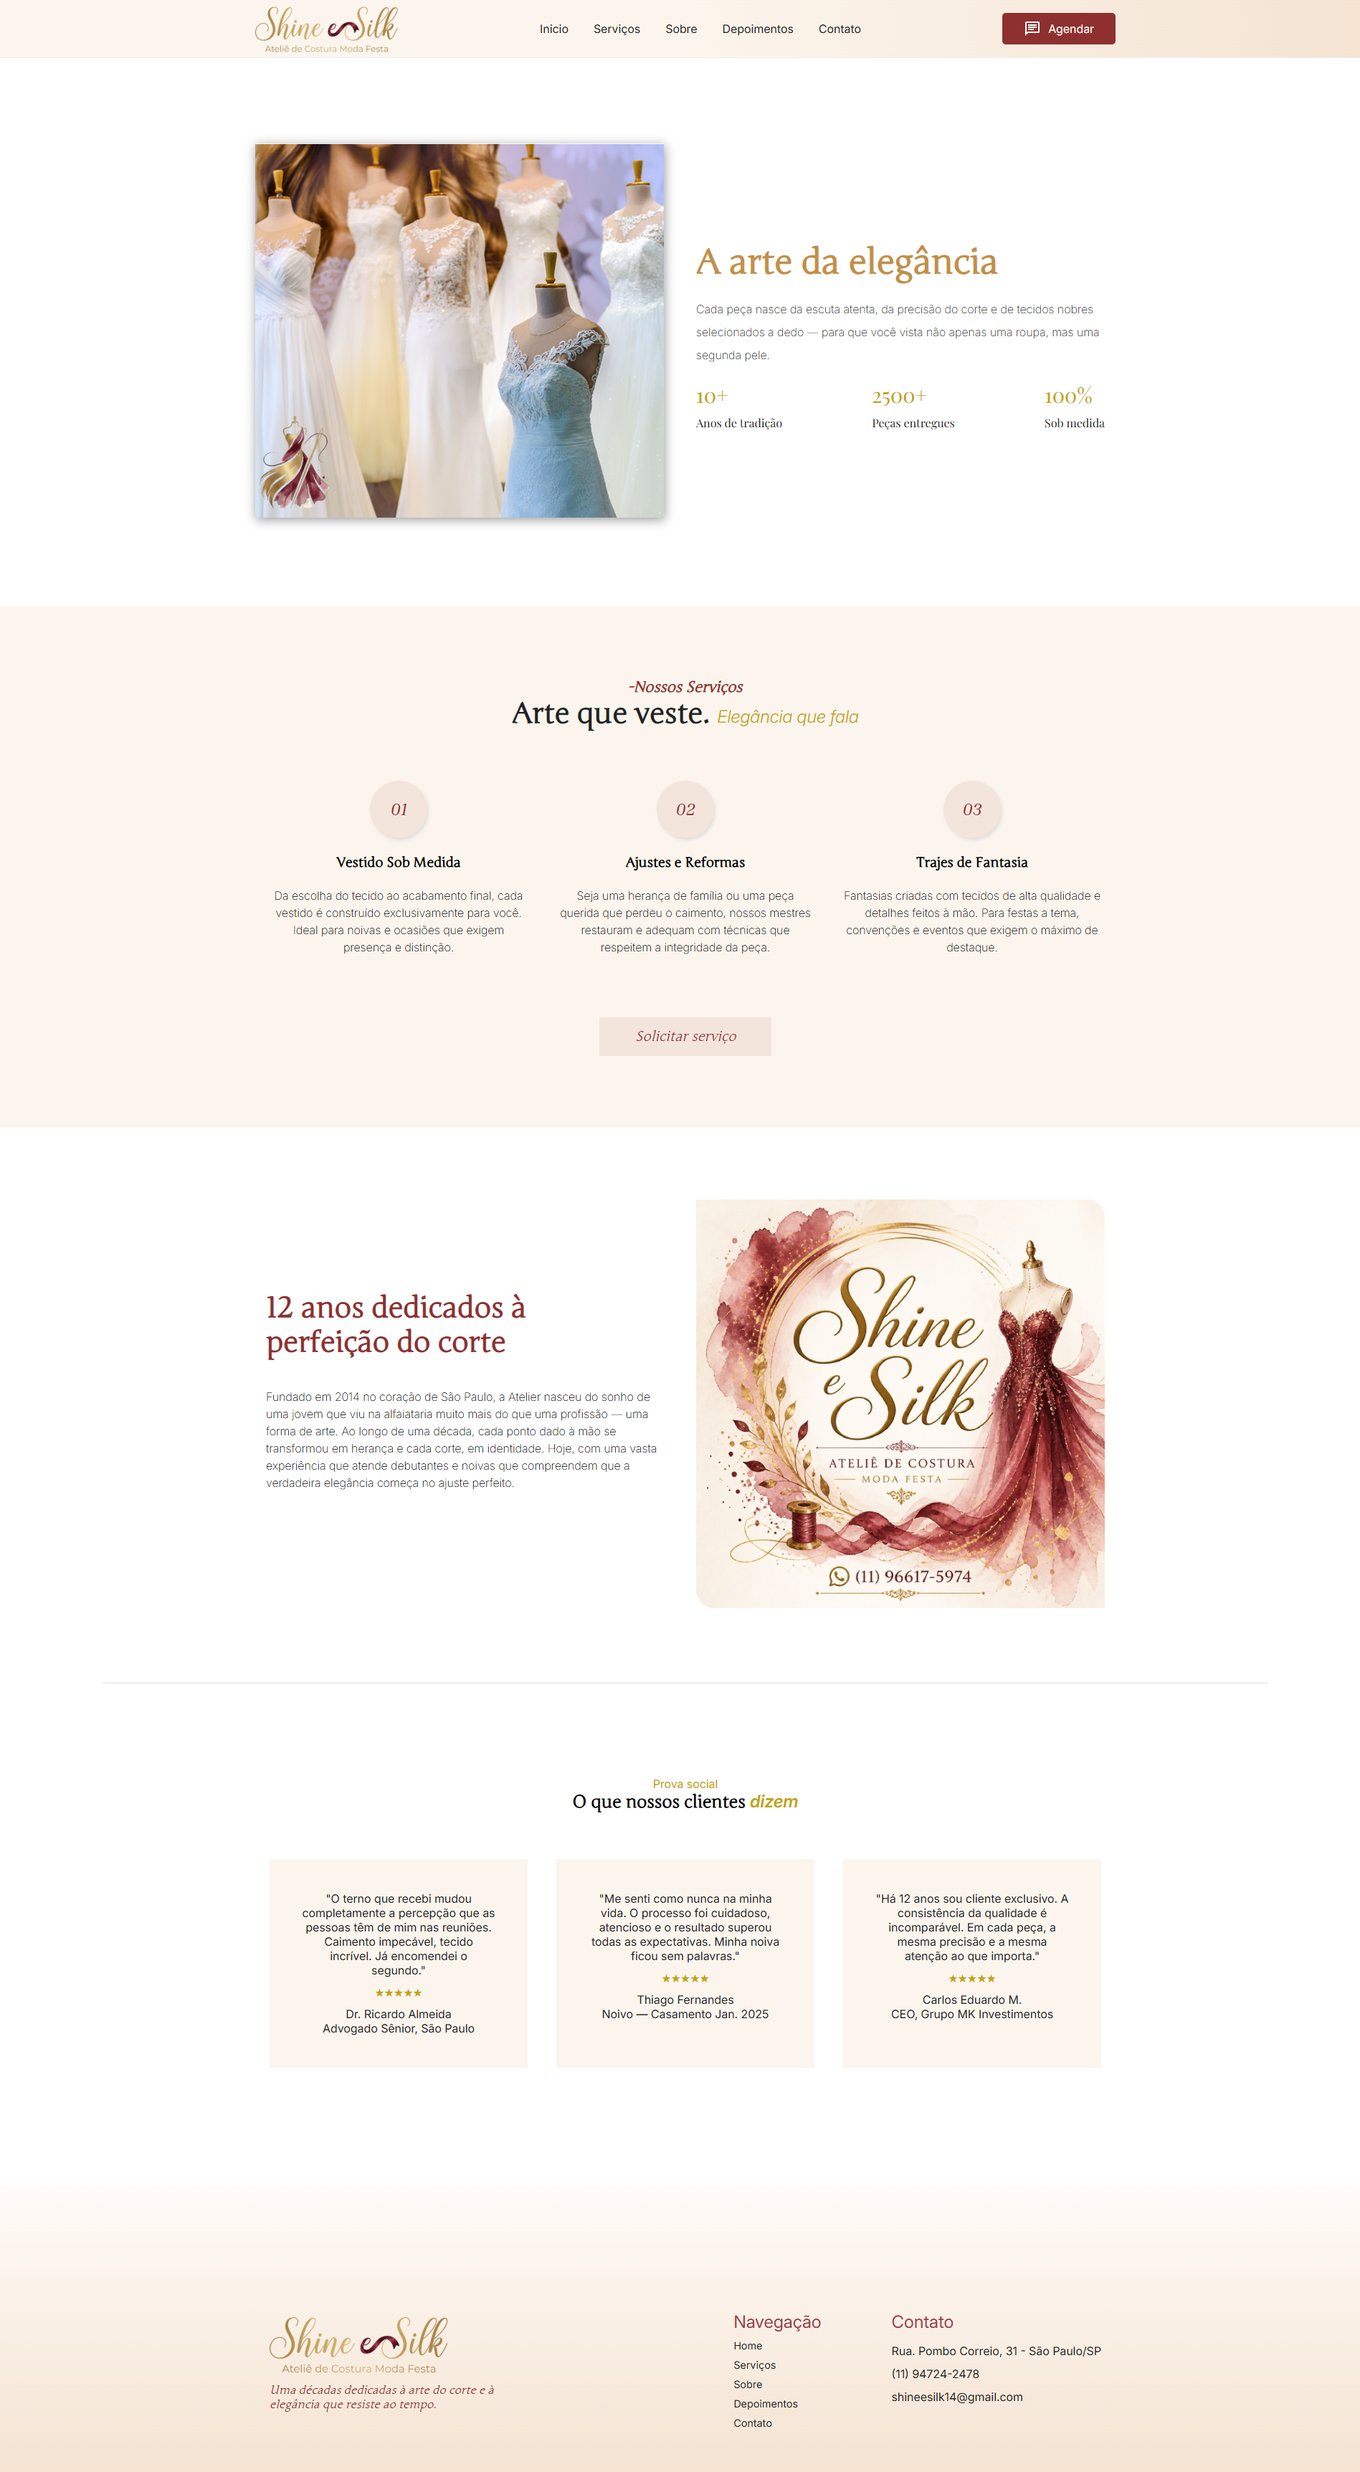
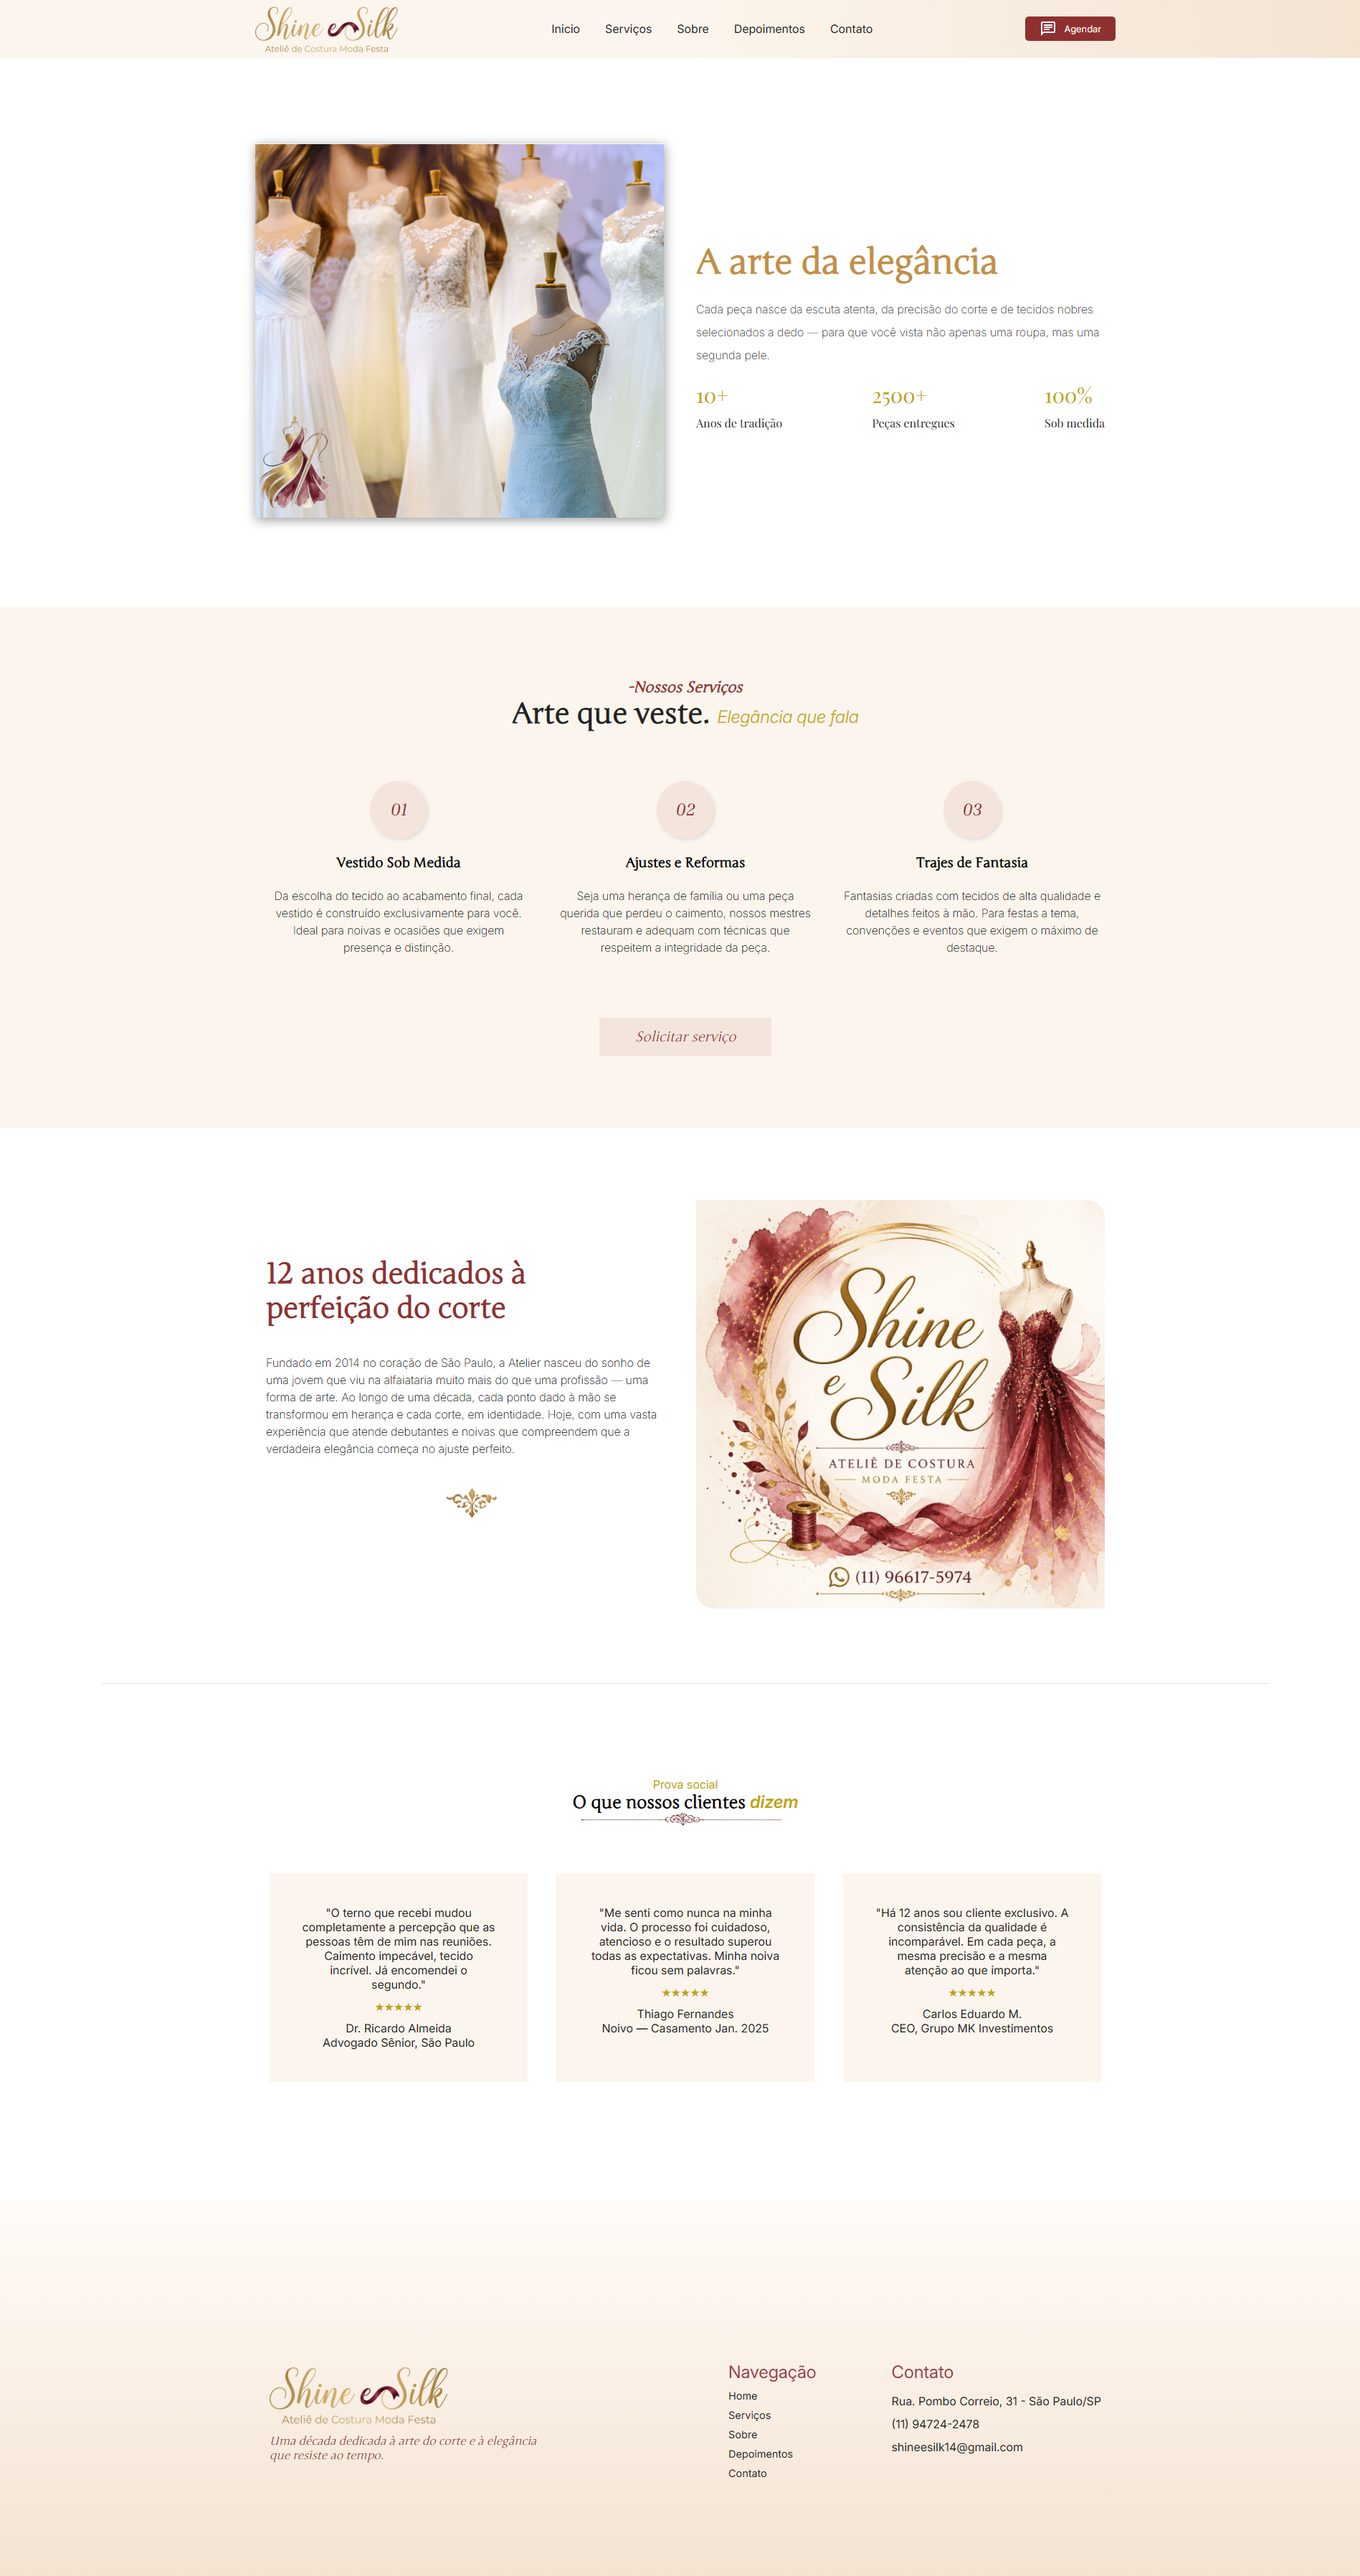
ajustes no footer

diff --git a/src/css/estilo.css b/src/css/estilo.css
@@ -239,7 +239,7 @@ header {
     width: 50px;
     height: 50px;
     border-radius: 50%;
-    background-color: #f3e5dc;   
+    background-color: #f3e5dc;
     color: var(--nova-cor-terciaria);
     display: flex;
     align-items: center;
@@ -249,6 +249,7 @@ header {
     font-style: italic;
     margin-top: 20px;
     box-shadow: 2px 3px 5px #ddd;
+    
 
 }
 
@@ -257,12 +258,12 @@ header {
 }
 
 
-    .elegancia_fala{
-        font-size: 1rem;
-        font-style: italic;
-        color: var(--cor-destaque);
-        font-weight: 200;
-    }
+.elegancia_fala{
+    font-size: 1rem;
+    font-style: italic;
+    color: var(--cor-destaque);
+    font-weight: 200;
+}
 
 .texto_servicos {
     margin-bottom: 0px;
@@ -335,17 +336,29 @@ header {
 
 .texto_sobre {
     margin: 40px 0px;
-    line-height: 1.5;
-    
+    line-height: 1.5;    
     font-weight: 200;
+}
+
+.icone_sobre{
+    width: 50px !important;
+    display: block;
+    margin: auto;
+    margin-bottom: 50px;
 }
 
 #depoimentos{   
     width: 85%;
     margin: auto;
-    border-top: 1px solid #ddd;
     margin-bottom: 100px;
     
+}
+
+.icone_depoimentos{
+    width: 300px !important;
+    display: block;
+    margin: auto;
+    margin-bottom: 50px;
 }
 
 .container_depoimentos{
@@ -448,6 +461,14 @@ header {
         justify-content: space-evenly;
     }
 
+    #btn_agendar_topo {
+       
+        padding: 5px 20px;   
+        font-size: .8rem;
+    
+    
+    }
+
     .container_hero {
         justify-content: center;
         width: 90%;
@@ -505,7 +526,7 @@ header {
     }
 
     .titulo_clientes{
-        padding-bottom: 50px;
+        padding-bottom: 0px;
     }
     
 
@@ -535,6 +556,24 @@ header {
         flex-grow: 1;
         
     }
+
+    #rodape{
+        padding: 50px 0px;
+    }
+
+    .container_footer{
+        text-align: center;
+    }
+
+    .itens_footer{
+        padding: 25px 0px;
+    }
+
+    .texto_logo_footer{
+        width: 100%;
+        margin: 0;
+        text-align: center;
+    }
 }
 
 
@@ -554,6 +593,8 @@ header {
     .menu li {
         font-size: 1rem;
     }
+
+    
 
     .container_hero {
         margin: 100px auto;
@@ -578,6 +619,10 @@ header {
 
     .descricao_numeros_hero {
         font-size: 1rem;
+    }
+
+    .icone_sobre{
+        width: 80px!important;
     }
 
     .container_servicos {
@@ -616,6 +661,7 @@ header {
 
     #depoimentos{
         width: 95%;
+        border-top: 1px solid #ddd;
         
     }
 
@@ -643,12 +689,19 @@ header {
         display: flex;
         justify-content: space-between;
         padding: 50px 0px;
+        text-align: left;
     }
 
     .itens_footer{
        padding-top: 125px;
        
     }
+
+    .texto_logo_footer{
+        width: 70%;
+        text-align: left;
+        margin-top: 10px;
+    }    
 
    
     
@@ -793,12 +846,34 @@ header {
         width: 100%;
     }
 
+    .titulo_clientes, .prova_social{
+        text-align: center;
+    }
+
     .container_depoimentos{
         flex-direction: column;
     }
 
     .box_depoimentos{
         margin: 25px 0px;
+    }
+
+    #rodape{
+        padding: 50px 0px;
+    }
+
+    .container_footer{
+        text-align: center;
+    }
+
+    .itens_footer{
+        padding: 25px 0px;
+    }
+
+    .texto_logo_footer{
+        width: 100%;
+        margin: 0;
+        text-align: center;
     }
 
 

diff --git a/src/partials/sobre.html b/src/partials/sobre.html
@@ -5,6 +5,8 @@
          <h2 class="titulo_sobre">12 anos dedicados à perfeição do corte</h2>
          <p class="texto_sobre">Fundado em 2014 no coração de São Paulo, a Atelier nasceu do sonho de uma jovem que viu na alfaiataria muito mais do que uma profissão — uma forma de arte. Ao longo de uma década, cada ponto dado à mão se transformou em herança e cada corte, em identidade.
          Hoje, com uma vasta experiência que atende debutantes e noivas que compreendem que a verdadeira elegância começa no ajuste perfeito.</p>
+
+         <img src="../src/img/icone-1.png" alt="" class="icone_sobre">
       </div>
 
         <div class="itens_sobre">

diff --git a/src/partials/rodape.html b/src/partials/rodape.html
@@ -4,7 +4,7 @@
     <div class="itens_footer">
         <img src="../src/img/logo/logo4.png" alt="logo rodape" id="logo_footer">
 
-        <p class="texto_logo_footer">Uma décadas dedicadas à arte do corte e à elegância que resiste ao tempo.</p>
+        <p class="texto_logo_footer">Uma década dedicada à arte do corte e à elegância que resiste ao tempo.</p>
     </div>
 
 

diff --git a/src/partials/depoimentos.html b/src/partials/depoimentos.html
@@ -1,6 +1,7 @@
 
     <p class="prova_social">Prova social</p>
     <h2 class="titulo_clientes">O que nossos clientes <span class="dizem">dizem</span></h2>
+    <img src="../src/img/icone-2.png" alt="Ícone de depoimento" class="icone_depoimentos">
     <div class="container_depoimentos">           
 
         <!--Box depoimentos-->
